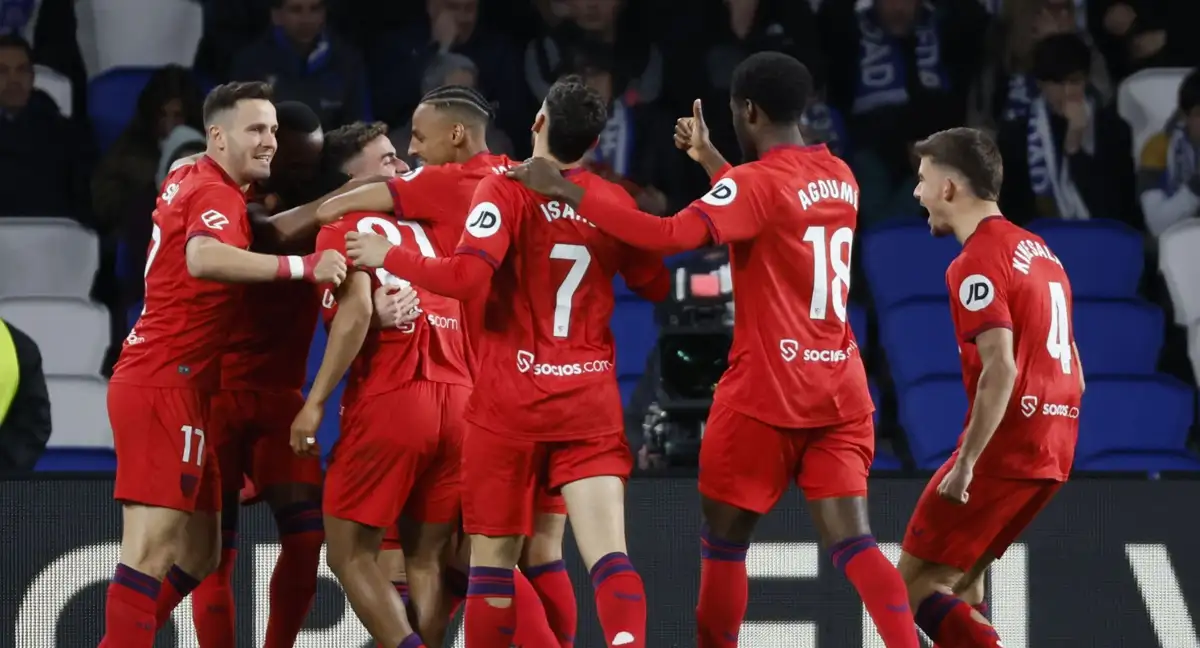
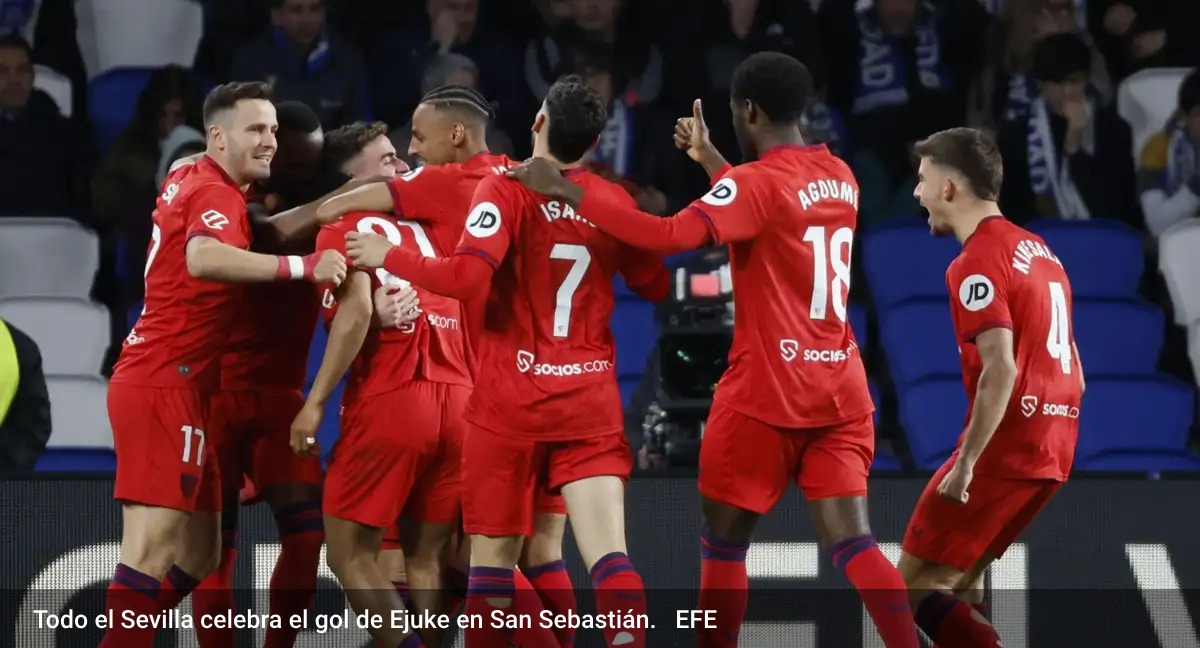
foto

Changed region(s): [[0.0, 0.8951, 0.8633, 1.0], [0.925, 0.8951, 1.0, 1.0]]

diff --git a/index.html b/index.html
@@ -44,9 +44,9 @@
                     <h1>EL SEVILLA MÁS GRUPAL Y VISITANTE PRESENTA SUS CREDENCIALES PARA EUROPA: "ESTAMOS CONSTRUYENDO ALGO BONITO"</h1>
                     <h2>Es el sexto mejor equipo de Primera División lejos de su estadio. Se aferran al "partido a partido", pero ya nadie esconde el sueño del vestuario.</h2>
                 </div>
-                <div class="noticia-principio-foto">
+                <figure class="noticia-principio-foto">
                     <img src="../assets/main-image.png" alt="">
-                </div>
+                </figure>
             </section>
             <section class="bloque">
                 <div class="bloque-noticia-autor">
@@ -55,9 +55,9 @@
                             <li>
                                 <ul >
                                     <div class="autor-1">
-                                        <div>
+                                        <figure>
                                             <li><img src="//s1.sportstatics.com/comun/img/autor/autor-6954-foto-3.png?cw=80&ch=80" alt=""></li>
-                                        </div>
+                                        </figure>
                                         <div class="autor-vertical">
                                             <li><strong>José Manuel Rodríguez</strong></li>
                                             <li>Publicado · 10 de marzo de 2025, 8:54 h</li>
@@ -77,22 +77,22 @@
                         </ul>
                     </section>
                     <section class="noticia-cuerpo">
-                        <p >Una piña. Para lo bueno y para lo malo. Eso es el Sevilla de la temporada 2024/25. Con sus limitaciones -muy visibles y palpables- y una planificación que no ha dejado contento a casi nadie, el club nervionense está sabiendo tirar hacia delante a base de unión. Y de, en parte, demérito del resto de equipos que luchan por Europa. Porque sí, pese a que parecía imposible hace apenas meses, los de García Pimienta pelearán por entrar en competición europea.</p>
+                        <p ><strong>Una piña.</strong> Para lo bueno y para lo malo. Eso es el <strong><a href="https://www.relevo.com/futbol/equipos/sevilla-fc/" target="_blank" style="color: #c72dc0;">Sevilla</a></strong> de la temporada 2024/25. Con sus limitaciones -muy visibles y palpables- y una planificación que no ha dejado contento a casi nadie, el club nervionense está sabiendo tirar hacia delante a base de unión. Y de, en parte, demérito del resto de equipos que luchan por Europa. Porque sí, pese a que parecía imposible hace apenas meses, los de <strong>García Pimienta</strong> pelearán por entrar en competición europea.</p>
                         <br>
-                        <p>La victoria en San Sebastián (0-1) ha sido balsámica. Pero sobre todo ha servido de empujón a una ilusión que se iba 'escapando' cada vez más. Hablar de clasificar a Europa era algo prohibitivo en la entidad durante la última parte de 2024. Algún futbolista comentó la posibilidad, pero rápidamente cualquier directivo o cargo del club rebajaba el suflé. Positivo o no, esa era la estrategia. Aunque el vestuario dijo 'basta' y en las últimas semanas ha dado un paso al frente.</p>
+                        <p></strong> Para lo bueno y para lo malo. Eso es el <a href="https://www.relevo.com/futbol/equipos/sevilla-fc/" target="_blank" style="color: #c72dc0;">La victoria en San Sebastián</a> (0-1) ha sido balsámica. Pero sobre todo ha servido de <strong>empujón a una ilusión</strong> que se iba 'escapando' cada vez más. Hablar de clasificar a Europa <strong>era algo prohibitivo</strong> en la entidad durante la última parte de 2024. Algún futbolista comentó la posibilidad, pero rápidamente cualquier directivo o cargo del club rebajaba el suflé. Positivo o no, esa era la estrategia. Aunque <strong>el vestuario dijo 'basta'</strong> y en las últimas semanas ha dado un paso al frente.</p>
                         <br>
-                        <p>En todas las declaraciones de jugadores del Sevilla ha salido el tema, y la respuesta del vestuario ha sido unidireccional: hay que soñar. Aunque tiene que ganárselo, como volvió a insistir tras la victoria García Pimienta: "Estamos metidos en un grupo de equipos en el que puede pasar de todo. Si ganas dos partidos te metes arriba y, si no, te metes abajo. Cuando queden cuatro o cinco partidos miraremos exactamente hacia dónde vamos. Nos tenemos que ganar el derecho de luchar por cosas importantes. Somos muy ambiciosos, eso sí que lo tenemos", comentó en rueda de prensa.</p>
+                        <p>En todas las declaraciones de jugadores del Sevilla ha salido el tema, y la respuesta del vestuario ha sido unidireccional: <strong>hay que soñar</strong>. Aunque tiene que ganárselo, como volvió a insistir tras la victoria <a href="https://www.relevo.com/futbol/equipos/sevilla-fc/" target="_blank" style="color: #c72dc0;">García Pimienta</a>: "Estamos metidos en un grupo de equipos en el que <strong>puede pasar de todo</strong>. Si ganas dos partidos te metes arriba y, si no, te metes abajo. Cuando queden cuatro o cinco partidos miraremos exactamente hacia dónde vamos. Nos tenemos que ganar el derecho de luchar por cosas importantes. <strong>Somos muy ambiciosos</strong>, eso sí que lo tenemos", comentó en rueda de prensa.</p>
                         <br>
                         <figure>
                             <iframe width="100%" height="315" src="./../assets/rueda-de-prensa.mp4"  allow="accelerometer; autoplay; encrypted-media; gyroscope; picture-in-picture" allowfullscreen autoplay="false"></iframe>
                         </figure>
-                        <p>Pero el objetivo está ahí. Y los resultados, pese a la fatídica estadística de no haber logrado encadenar dos victorias consecutivas en toda la temporada, comienzan a apoyarlo. El Sevilla tiene números de Europa... lejos de casa. Ya suma cuatro victorias y cinco empates, afianzándose como el sexto mejor visitante de toda la Primera División. A base de grupo, de colectivo. De saber sufrir como conjunto.</p>
+                        <p>Pero el objetivo está ahí. Y los resultados, pese a la fatídica estadística de no haber logrado encadenar dos victorias consecutivas en toda la temporada, comienzan a apoyarlo. <strong>El Sevilla tiene números de Europa... lejos de casa</strong>. Ya suma cuatro victorias y cinco empates, afianzándose como el sexto mejor visitante de toda la Primera División. A base de grupo, de colectivo. De saber sufrir como conjunto.</p>
                         <br>
-                        <p>Ante la Real Sociedad, el Sevilla acabó defendiendo al unísono, con un marcador a favor en el que volvió a ser protagonista Saúl. El ilicitano no está rindiendo como se esperaba... pero lo cierto es que ya suma seis asistencias y el cartel de líder no se lo quita nadie. Tras el encuentro tiró de cholismo, pero tampoco pudo esconder la ilusión del vestuario: "Partido a partido, ya me conocéis. El equipo está creciendo y hay que seguir en la misma línea. Estamos construyendo algo bonito junto a la afición, que no nos deja ni en las buenas ni en las malas. Nos exigen como el club que somos y tenemos que hacer cosas grandes. El equipo se siente bien y, a pesar de que algunos resultados han sido negativos, el trabajo está ahí".</p>
+                        <p>Ante la Real Sociedad, el Sevilla acabó defendiendo al unísono, con un marcador a favor en el que volvió a ser protagonista <strong>Saúl</strong>. El ilicitano no está rindiendo como se esperaba... pero lo cierto es que ya suma <strong>seis asistencias</strong> y el cartel de líder no se lo quita nadie. Tras el encuentro tiró de cholismo, pero tampoco pudo esconder la ilusión del vestuario: "Partido a partido, ya me conocéis. El equipo está creciendo y hay que seguir en la misma línea. <strong>Estamos construyendo algo bonito</strong> junto a la afición, que no nos deja ni en las buenas ni en las malas. <strong>Nos exigen</strong> como el club que somos y tenemos que hacer cosas grandes. El equipo se siente bien y, a pesar de que algunos resultados han sido negativos, el trabajo está ahí".</p>
                         <br>
-                        <p>"Se nos habían escapado los puntos en dos finales en casa, como ante el Mallorca, y hemos trabajado y corregido errores que nos penalizaban fácil. El equipo ha sido solvente contra un gran rival como la Real", finiquitó. Sí. El equipo de Jagoba Arrasate, séptimo en la tabla, es rival directo de un Sevilla que quiere permitirse soñar.</p>
+                        <p>"<strong>Se nos habían escapado los puntos</strong> en dos finales en casa, como ante el Mallorca, y hemos trabajado y corregido errores que nos penalizaban fácil. El equipo ha sido <strong>solvente</strong> contra un gran rival como la Real", finiquitó. Sí. El equipo de Jagoba Arrasate, séptimo en la tabla, es rival directo de un Sevilla que quiere permitirse soñar.</p>
                         <br>
-                        <p>De esta forma, a base de vestuario. A base de sacar, por fin, unas garras que denotan competitividad y ambición. A base de conjunto... García Pimienta está consiguiendo enchufar a todos a un objetivo que nadie podía esperar. Se espantan los fantasmas del descenso. Se asoman los deseos de Europa. No le queda otra a este Sevilla. Si quiere evitar la mediocridad, la ambición es el único camino.</p>
+                        <p>De esta forma, a base de vestuario. A base de sacar, por fin, unas garras que denotan competitividad y ambición. A base de conjunto... García Pimienta está consiguiendo enchufar a todos a un objetivo que nadie podía esperar. Se espantan los fantasmas del descenso. <strong>Se asoman los deseos de Europa</strong>. No le queda otra a este Sevilla. <strong>Si quiere evitar la mediocridad, la ambición es el único camino</strong>.</p>
                     </section>
                     <div class="noticia-cuerpo-topics">
                         <ul>

diff --git a/style/style.css b/style/style.css
@@ -9,8 +9,8 @@
 ================================================== */
 
 .nav {
-    width: 100%;
     background-color: var(--color-white);
+    width: 100%;
     border-bottom: solid 2px var(--color-purple);
     display: flex;
     position: fixed;
@@ -19,8 +19,10 @@
     font-family: "Work Sans", sans-serif;
     font-size: var(--text-tiny);
     font-weight: var(--font-sebold);
-
+    
     .nav-complete {
+        padding: 8 0px;
+        max-width: 1200px;
         background-color: var(--color-white);
         display: flex;
         justify-content: space-between;
@@ -140,6 +142,7 @@
     .autor ul{
         display: flex;
         align-items: center;
+        justify-content: space-between;
         
         img {
             width: 3em;
@@ -301,9 +304,9 @@
         .noticia-principio{
             display: flex;
             justify-content: space-between;
-            flex-direction: row;
             padding-left: 96px;
             padding-right: 96px;
+            width: 100;
         }
         
         .noticia-principio-texto {
@@ -327,13 +330,26 @@
         }
 
         .noticia-principio-foto {
-            width: 60%;
+            max-width: 60%;
             padding-top: 1em;
         
             img {
-                display: flex;
-                justify-content: center;
                 max-width: 100%;
+            }
+
+            .ola {
+                display: flex;
+                position: absolute;
+                top: 372px;
+                padding: 0.3rem 0;
+                background-color: rgba(0, 0, 0, 0.295);
+                
+                p {
+                    font-family: 'Roboto Flex', sans-serif;
+                    font-size: 0.6rem;
+                    color: white;
+                    padding-left: 1rem;
+                }
             }
         }
     }
@@ -563,7 +579,7 @@
             .footer-derecha {
                 
                 width: 100%;
-                column-count: 4;
+                column-count: 2;
                 font-size: 0.7rem;
 
                 li:first-child {
